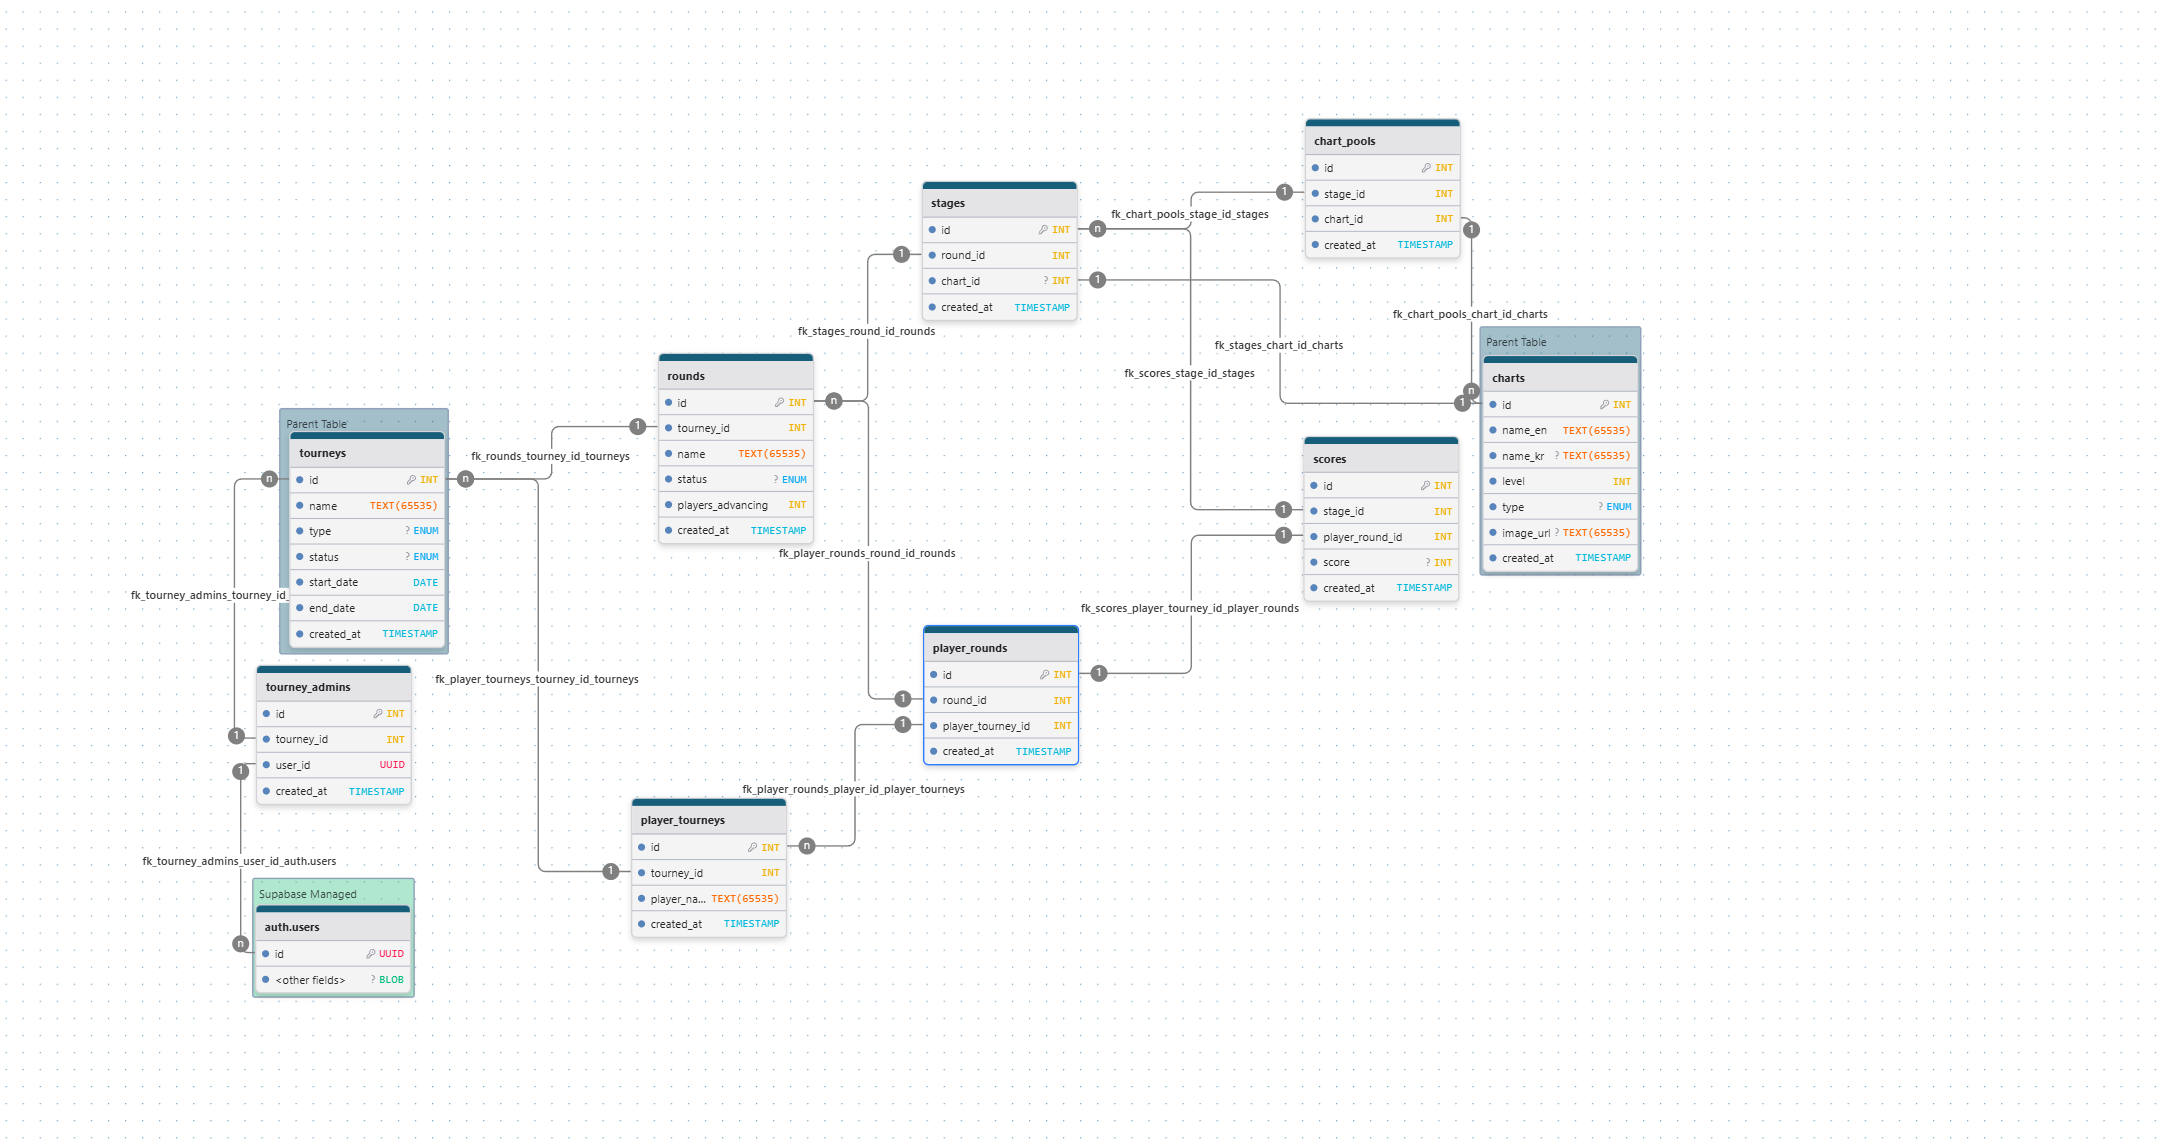
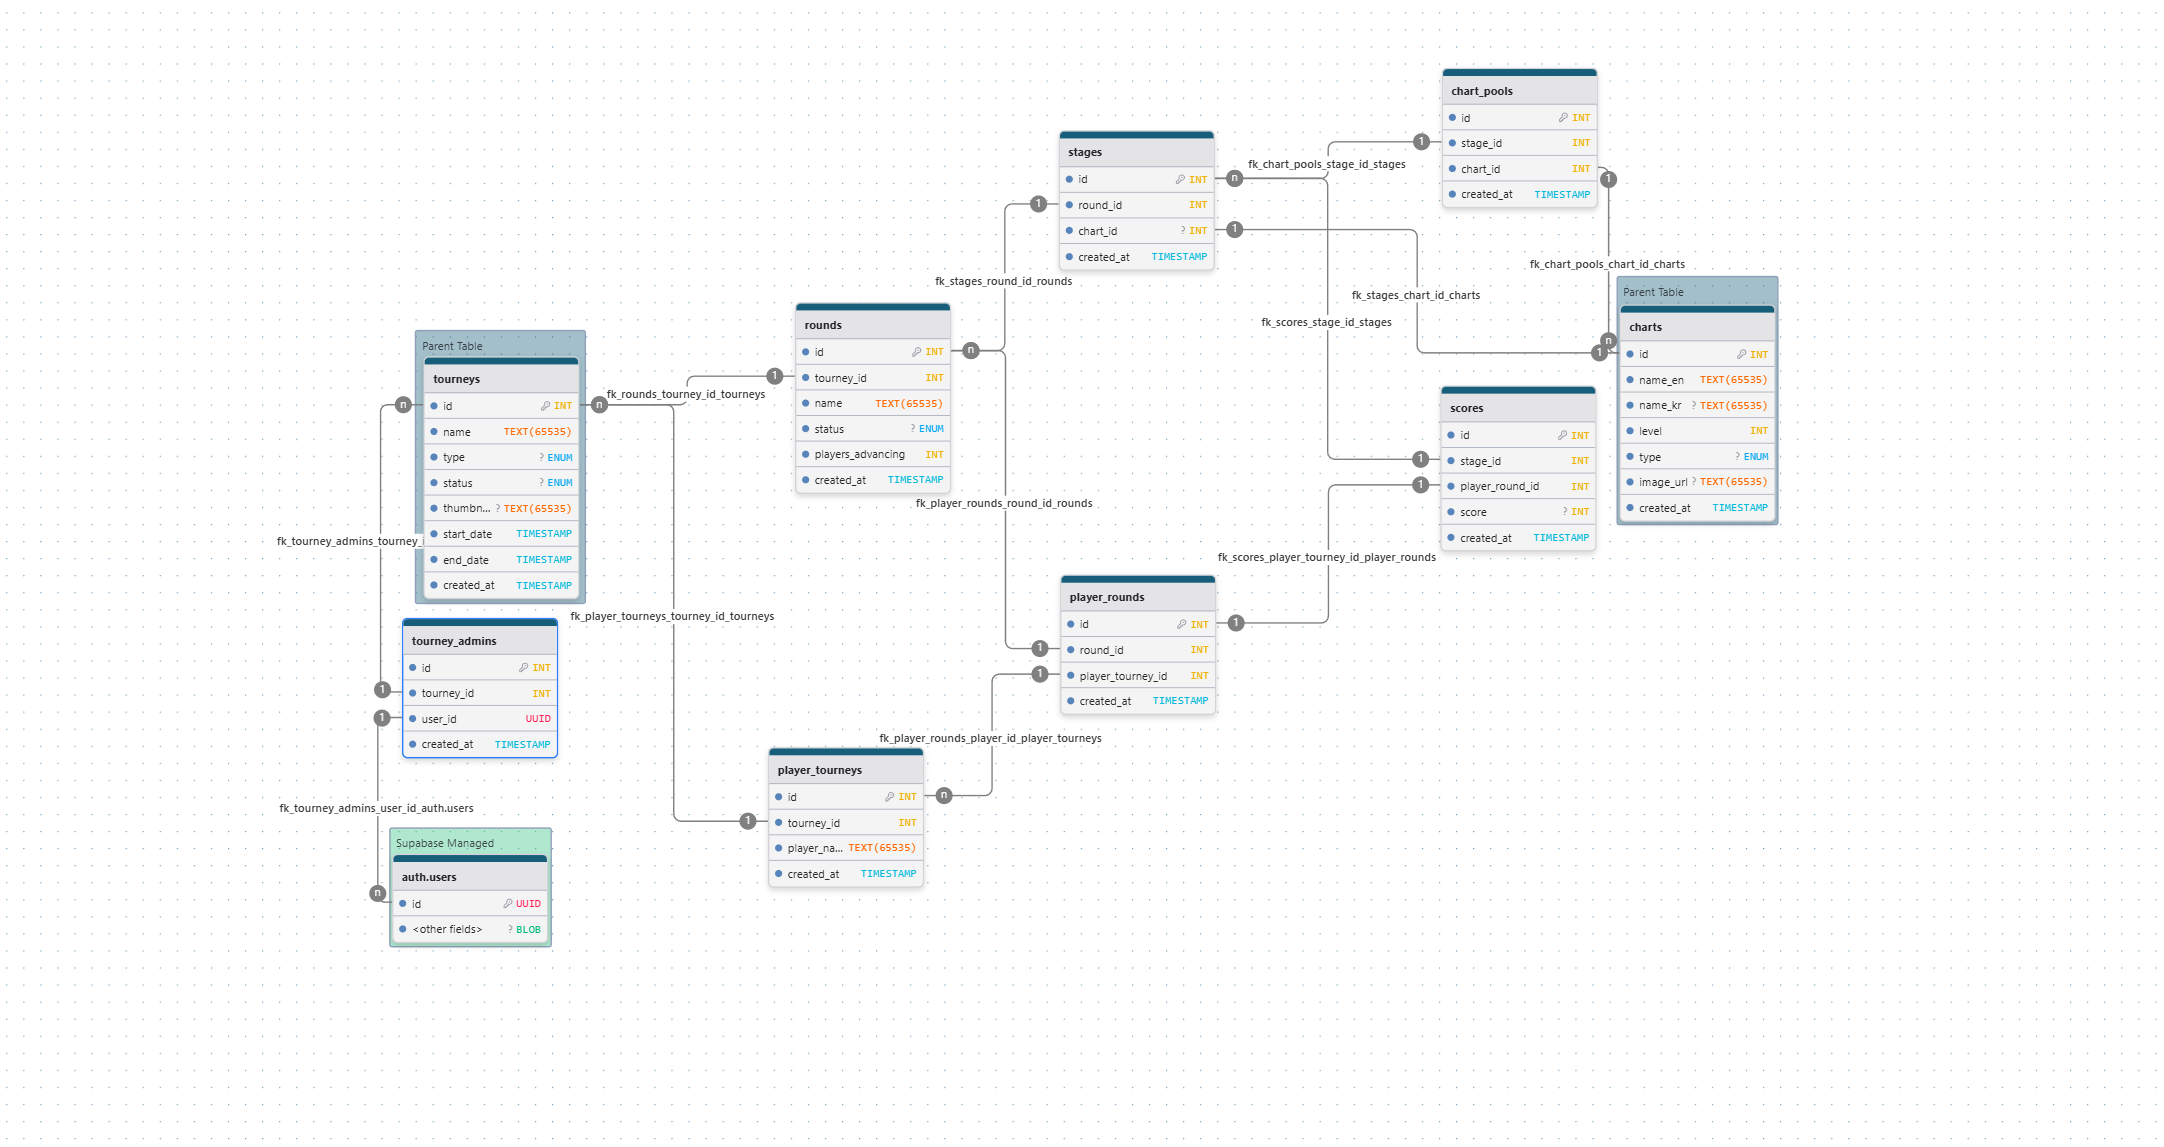
added thumbnail_img as a field to Supabase for tourney thumbnail image

Changed region(s): [[0.0619, 0.061, 0.836, 0.8849]]

diff --git a/src/pages/HomePage.tsx b/src/pages/HomePage.tsx
@@ -69,26 +69,13 @@ function HomePage() {
               minW={{ base: "60px", sm: "80px", md: "90px" }}
               minH={{ base: "60px", sm: "80px", md: "90px" }}
             >
-              {/* (08/29/2025) Jaekim: Hardcoding in JTAK header images based on the conditional below ie. includes string "JTAK 2 Ahh"*/}
-              {row.name.includes("JTAK 2 Ahh") ? (
-                <Image
-                  src={"https://i.ibb.co/LX4JFxPP/JTAK.png"}
-                  alt={`${row.name} image`}
-                  boxSize={{ base: "60px", sm: "80px", md: "90px" }}
-                  objectFit="cover"
-                  borderRadius="md"
-                />
-              ) : (
-                <Image
-                  src={
-                    "https://images.start.gg/images/tournament/776306/image-ac1496a2e656e00a6a57aa025a87b0b3.jpg"
-                  }
-                  alt={`${row.name} image`}
-                  boxSize={{ base: "60px", sm: "80px", md: "90px" }}
-                  objectFit="cover"
-                  borderRadius="md"
-                />
-              )}
+              <Image
+                src={row.thumbnail_img ?? "/trophy.png"}
+                alt={`${row.name} image`}
+                boxSize={{ base: "60px", sm: "80px", md: "90px" }}
+                objectFit="cover"
+                borderRadius="md"
+              />
             </Box>
 
             <Flex

diff --git a/src/types/Tourney.ts b/src/types/Tourney.ts
@@ -8,4 +8,5 @@ export interface Tourney {
   end_date: string;              // ISO date string (yyyy-mm-dd)
   status?: TourneyStatus | null; // enum type
   type?: TourneyType | null;     // enum type
+  thumbnail_img?: string;        // text
 }
